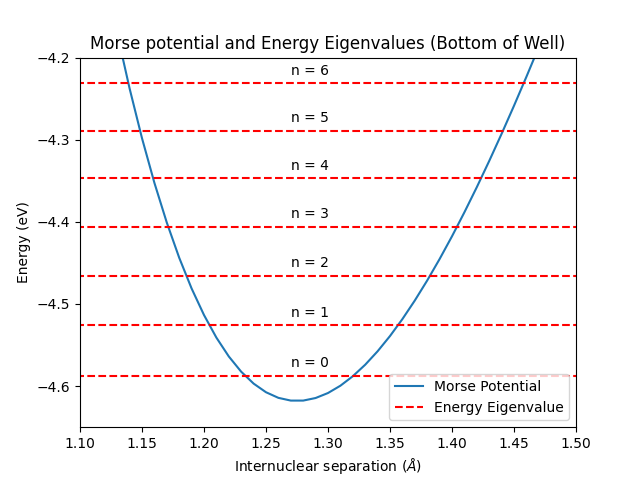
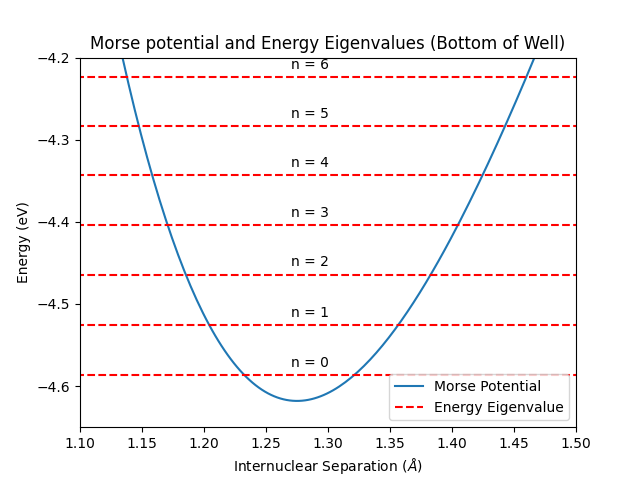
plots of probability distributions for first three states

diff --git a/finite_difference_morse.py b/finite_difference_morse.py
@@ -27,7 +27,7 @@ r_e = 1.275  # Chlorine equilibrium separation in Angstroms
 # Define r values in angrstoms:
 r_min = 0.01
 r_max = 10
-n_steps = 1000
+n_steps = 4000
 r = np.linspace(r_min, r_max, n_steps)  # grid of r values in Angrstoms
 
 V_r = De*(np.exp(-2*a*(r - r_e)) - 2*np.exp(-a*(r - r_e)))  # Morse potential in eV
@@ -75,7 +75,7 @@ ax1.legend([morse, energy], ["Morse Potential", "Energy Eigenvalue"],
 # Set axes limits/labels
 ax1.set_xlim(0.75, 5)
 ax1.set_ylim(-5, 0.1)
-ax1.set_xlabel(r"Internuclear separation ($\AA$)")
+ax1.set_xlabel(r"Internuclear Separation ($\AA$)")
 ax1.set_ylabel("Energy (eV)")
 ax1.set_title("Morse potential and Energy Eigenvalues (Full Well)")
 plt.savefig("full_morse_and_energies.png")
@@ -98,10 +98,44 @@ ax2.legend([morse, energy], ["Morse Potential", "Energy Eigenvalue"],
 # Set axes limits/labels
 ax2.set_xlim(1.1, 1.5)
 ax2.set_ylim(-4.65, -4.2)
-ax2.set_xlabel(r"Internuclear separation ($\AA$)")
+ax2.set_xlabel(r"Internuclear Separation ($\AA$)")
 ax2.set_ylabel("Energy (eV)")
 ax2.set_title("Morse potential and Energy Eigenvalues (Bottom of Well)")
 plt.savefig("lower_well_morse_energies.png")
 f2.show()
+
+# Calculate probability distribution for first few energy states
+# Normalize wave functions
+U0 = U[:, 0]
+mod_U0 = np.multiply(np.conj(U0), U0)
+mod_U0_norm = mod_U0/np.linalg.norm(mod_U0)
+
+U1 = U[:, 1]
+mod_U1 = np.multiply(np.conj(U1), U1)
+mod_U1_norm = mod_U1/np.linalg.norm(mod_U1)
+
+U2 = U[:, 2]
+mod_U2 = np.multiply(np.conj(U2), U2)
+mod_U2_norm = mod_U2/np.linalg.norm(mod_U2)
+
+
+f3, ax3 = plt.subplots()
+ground, = ax3.plot(r, mod_U0_norm)
+first_excited, = ax3.plot(r, mod_U1_norm)
+second_excited, = ax3.plot(r, mod_U2_norm)
+
+# Add legend
+ax3.legend([ground, first_excited, second_excited],
+           ["n = 0", "n = 1", "n = 2"],
+           loc="best")
+
+# Set axes limits/labels
+ax3.set_xlim(1.1, 1.45)
+ax3.set_ylim(0, 0.25)
+ax3.set_xlabel(r"Internuclear Separation ($\AA$)")
+ax3.set_ylabel(r"Probability of Separation (|$U^2$|)")
+ax3.set_title("Probability Distributions for Ground State and First Two Excited States")
+plt.savefig("morse_prob_distribs.png")
+f3.show()
 
 plt.show()
